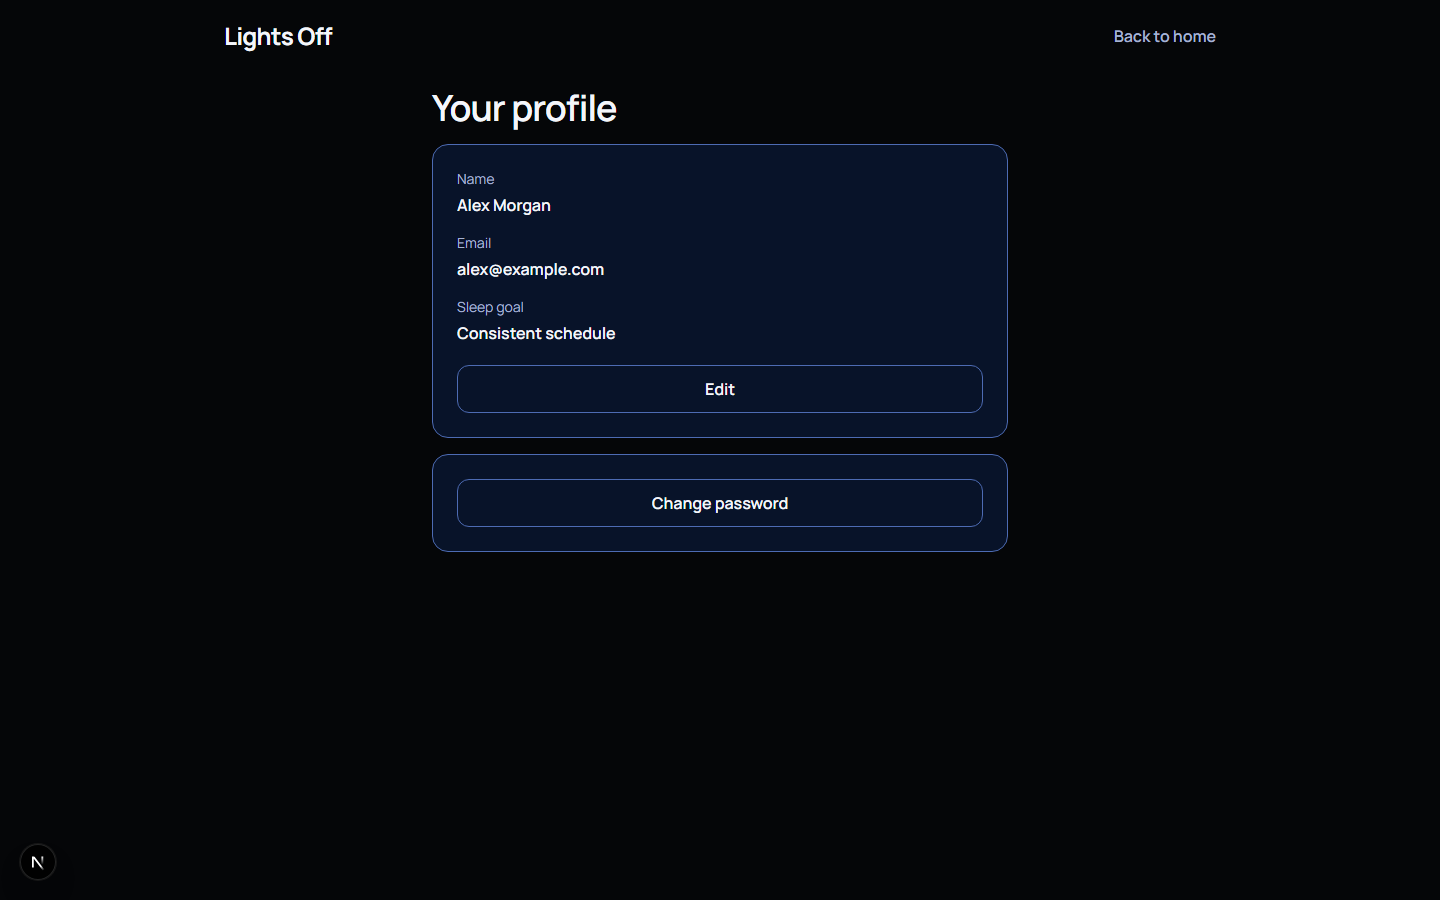
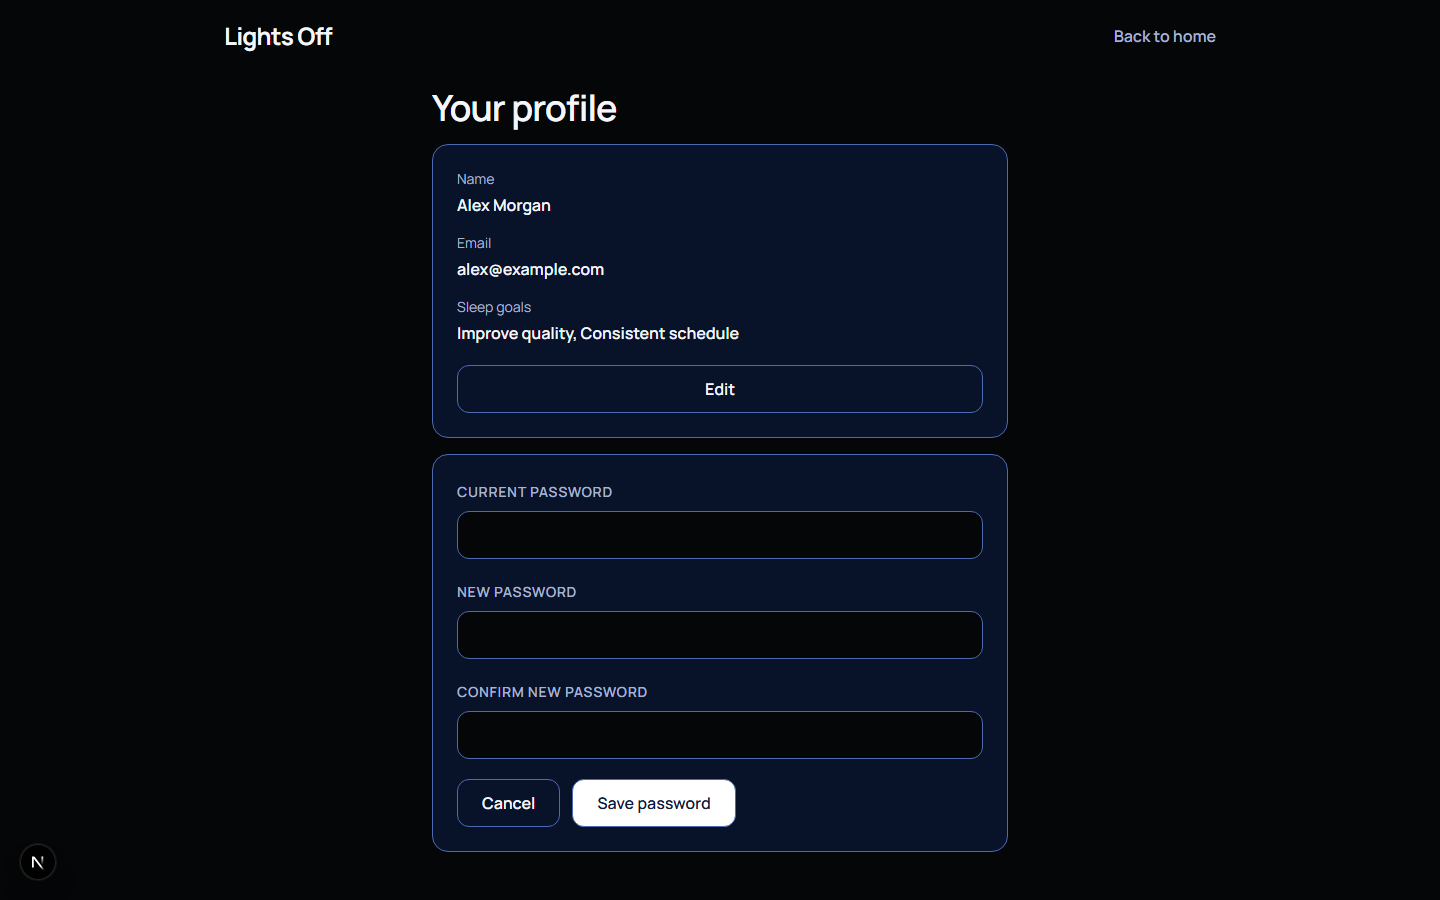
Show the change password form in the profile screenshot

Changed region(s): [[0.2812, 0.5289, 0.7188, 0.9644], [0.3125, 0.3422, 0.5, 0.4044]]

diff --git a/README.md b/README.md
@@ -6,7 +6,7 @@ Lights Off is a sleep tracking web application that helps users find out what af
 
 In Development
 
-The backend API is built, and every page on the frontend talks to it. The dashboard and profile page are both finished. Next up is getting the sleep coach to use your sleep goal.
+The backend API is built, and every page on the frontend talks to it. The dashboard and profile page are both finished. Next up is getting the sleep coach to use your sleep goals.
 
 ## Features
 
@@ -16,7 +16,7 @@ The backend API is built, and every page on the frontend talks to it. The dashbo
 - Update last night's log
 - See the month on a calendar, coloured by how well you slept, and tap a night for the details
 - Go back through past months on the dashboard
-- Set your name and sleep goal, and change your password (for email accounts)
+- Set your name and sleep goals, and change your password (for email accounts)
 - Get AI feedback on last night's sleep and a review of each month
 - AI feedback is saved and rate limited to keep costs down
 
@@ -107,7 +107,7 @@ The backend API is built, and every page on the frontend talks to it. The dashbo
 ### Backend
 - Use RAG (OpenAI embeddings) so the monthly review can compare against similar past nights
 - Add password reset and email verification
-- Have the sleep coach use the user's sleep goal in its feedback
+- Have the sleep coach use the user's sleep goals in its feedback
 - Let users delete their account
 - Deploy to AWS
 
